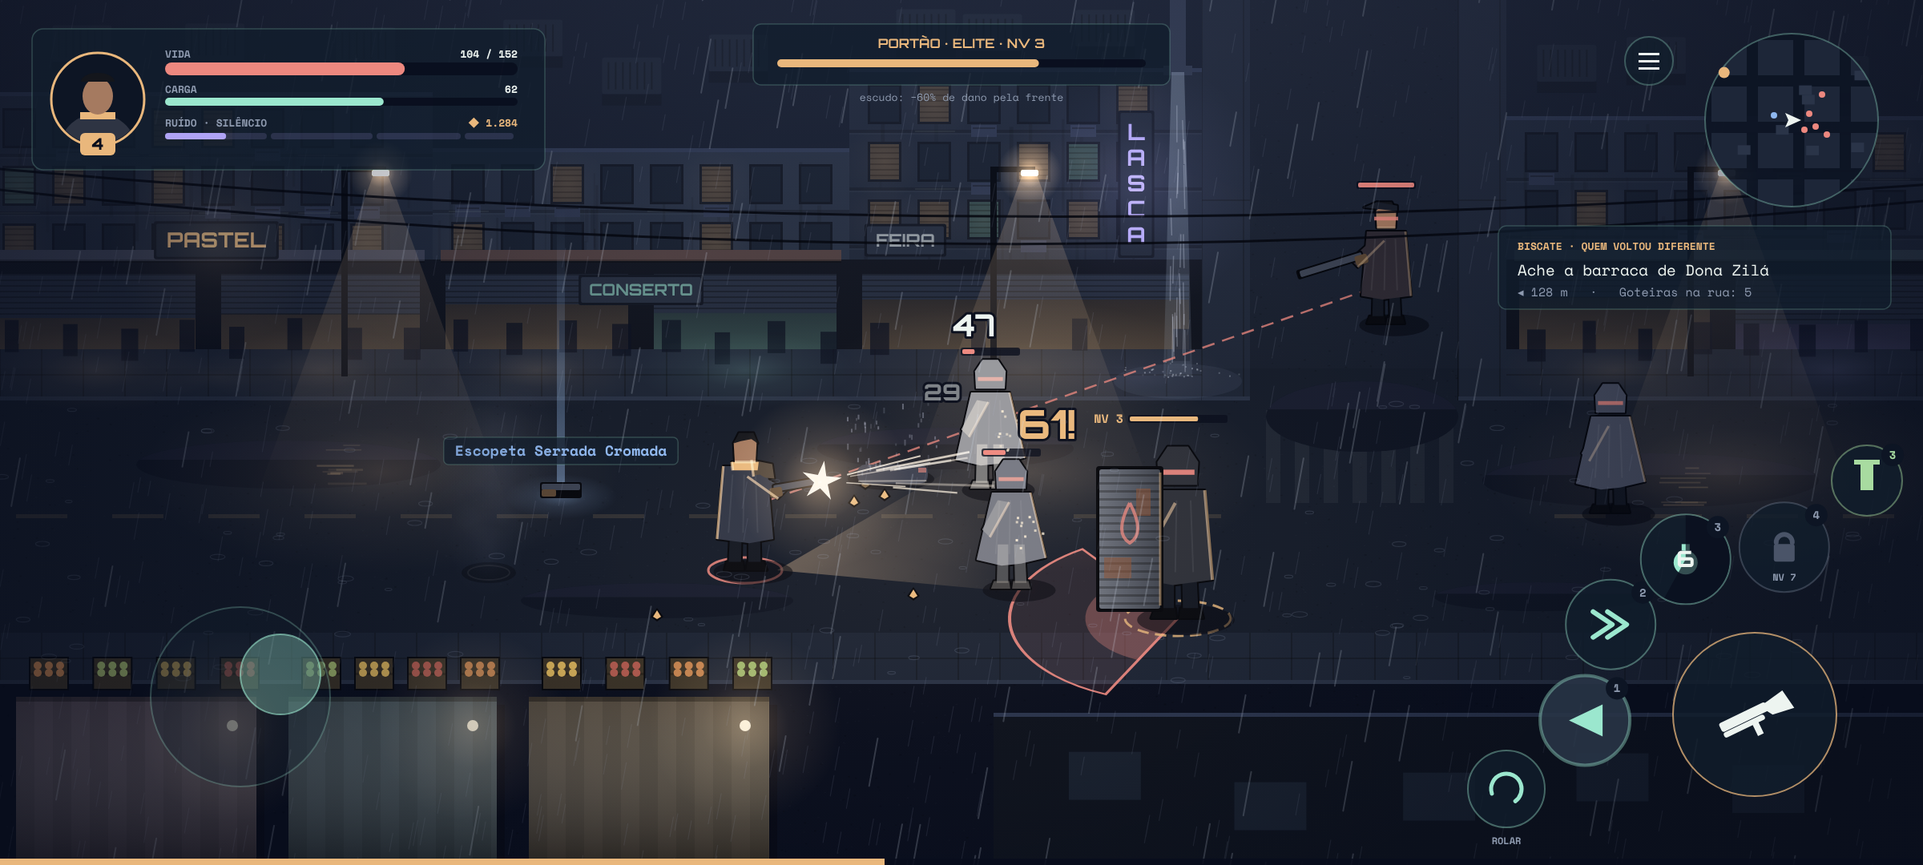
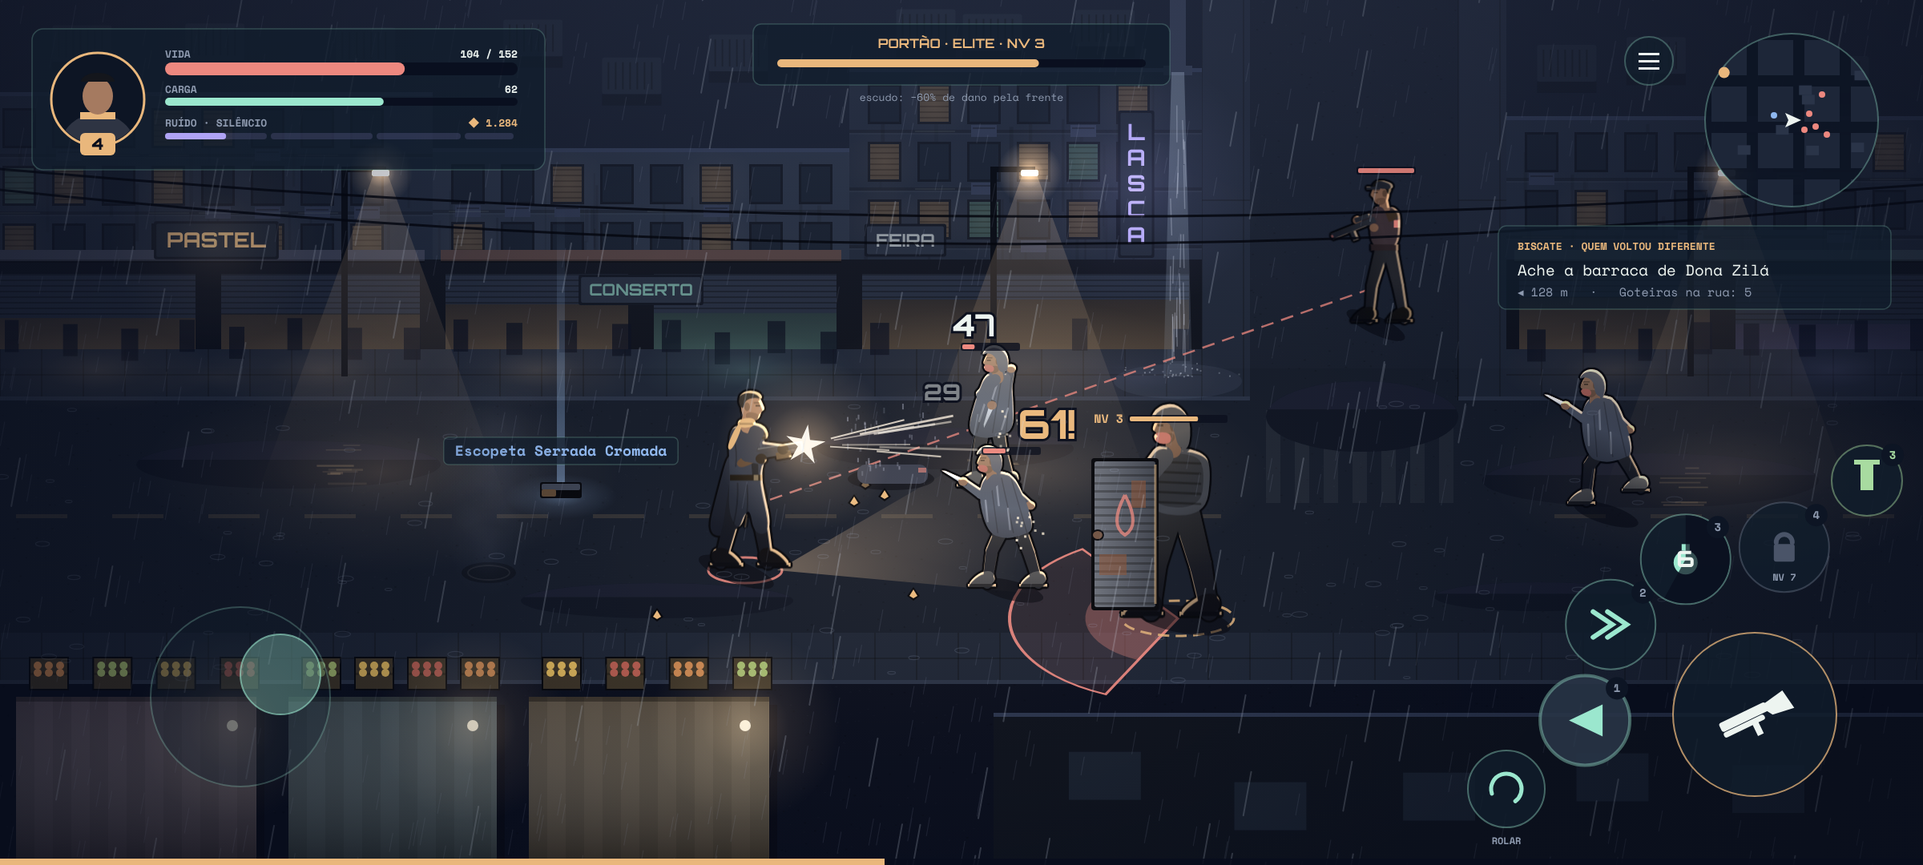
ARPG: personagens com esqueleto, roupa e luz no quadro-alvo
Cada personagem vira um esqueleto vestido peça por peça (membros com
volume, sobretudo, capa de plástico, colete, rosto e mãos) e passa por
sombreado na direção do poste, luz de recorte quente e contorno escuro,
as mesmas passadas que o jogo vai cachear por pose.

Claude-Session: https://claude.ai/code/session_01XykR7UudGTSDrKoZbePf42

Changed region(s): [[0.375, 0.3972, 0.6562, 0.7333], [0.6562, 0.1833, 0.75, 0.3667], [0.8125, 0.4278, 0.875, 0.5806]]

diff --git a/arpg/docs/visao-final.html b/arpg/docs/visao-final.html
@@ -165,48 +165,203 @@ function poste(x, y) {
 }
 
 // ── personagens ────────────────────────────────────
-// Silhueta escura com contorno quase preto e luz de recorte quente do lado do poste.
-// A cor de quem é quem fica num detalhe só: cachecol âmbar, bandana coral.
-function pessoa(x, y, o) {
-  const s = o.s || 1.25, f = o.olha || 1;
-  ctx.fillStyle = 'rgba(3,6,14,0.55)'; ctx.beginPath(); ctx.ellipse(x + 10, y + 2, 38 * s, 12 * s, 0, 0, Math.PI * 2); ctx.fill();
-  const P = [];
-  const p = (cor, pts, recorte) => P.push({ cor, pts: pts.map(([a, b]) => [x + a * s * f, y + b * s]), recorte });
-  p('#121722', [[-14, -46], [-3, -46], [-4, -6], [-16, -6]]);
-  p('#121722', [[3, -46], [14, -46], [15, -6], [3, -6]]);
-  p('#07090f', [[-18, -8], [-2, -8], [-1, 0], [-20, 0]]);
-  p('#07090f', [[2, -8], [18, -8], [21, 0], [1, 0]]);
-  if (o.capa) p(o.casaco, [[-20, -100], [20, -100], [36, -30], [10, -24], [-10, -26], [-36, -32]], true);
-  else p(o.casaco, [[-21, -100], [21, -100], [27, -30], [4, -26], [-27, -30]], true);
-  if (o.ombreira) p('#4a4038', [[6, -106], [26, -102], [28, -88], [8, -90]], true);
-  const a = o.mira ?? 0.9;
-  const ax = 8, ay = -90, ex = ax + Math.cos(a) * 26, ey = ay + 14 + Math.sin(a) * 16;
-  p(o.casaco, [[ax - 6, ay], [ax + 6, ay - 2], [ex + 6, ey + 2], [ex - 2, ey + 10]], true);
-  const cab = o.capuz
-    ? [[-15, -104], [-16, -122], [-8, -134], [8, -134], [16, -122], [15, -104]]
-    : [[-10, -104], [-11, -122], [-6, -130], [7, -130], [11, -122], [10, -104]];
-  p(o.capuz ? o.casaco : '#a57a60', cab, !o.capuz);
-  if (!o.capuz) p('#14161c', [[-11, -122], [-6, -132], [8, -132], [12, -122], [6, -126], [-4, -124]]);
-  if (o.bone) p('#1a1f2b', [[-12, -128], [10, -132], [24, -126], [-12, -122]]);
-  if (o.cachecol) p(o.cachecol, [[-13, -104], [13, -104], [12, -96], [-12, -96]], true);
-  ctx.lineJoin = 'round';
-  for (const q of P) { poli(q.pts); ctx.strokeStyle = '#04060c'; ctx.lineWidth = 4; ctx.stroke(); }
-  for (const q of P) { poli(q.pts); ctx.fillStyle = q.cor; ctx.fill(); }
-  if (o.arma) {
-    const bx = x + ex * s * f, by = y + ey * s;
-    ctx.save(); ctx.translate(bx, by); ctx.rotate(f > 0 ? a : Math.PI - a); if (f < 0) ctx.scale(1, -1);
-    ctx.fillStyle = '#04060c'; rr(-10, -7, o.arma * s + 6, 12, 3); ctx.fill();
-    ctx.fillStyle = '#3b4252'; rr(-8, -5, o.arma * s, 8, 2); ctx.fill();
-    ctx.fillStyle = '#5a4634'; rr(-14, -2, 16, 12, 3); ctx.fill();
-    ctx.restore();
-  }
-  ctx.save(); ctx.globalCompositeOperation = 'screen'; ctx.lineWidth = 2.5 * s; ctx.strokeStyle = rgba(A.sodio, o.recorte ?? 0.55);
-  for (const q of P) if (q.recorte) { ctx.beginPath(); ctx.moveTo(q.pts[0][0], q.pts[0][1]); ctx.lineTo(q.pts[q.pts.length - 1][0], q.pts[q.pts.length - 1][1]); ctx.stroke(); }
-  ctx.restore();
-  ctx.strokeStyle = 'rgba(237,244,240,0.07)'; ctx.lineWidth = 2;
-  for (let i = 0; i < 3; i++) { ctx.beginPath(); ctx.moveTo(x - 12 * s + i * 11 * s, y - 92 * s); ctx.lineTo(x - 16 * s + i * 14 * s, y - 36 * s); ctx.stroke(); }
-  if (o.acento) { ctx.fillStyle = o.acento; ctx.fillRect(x - 13 * s, y - 116 * s, 26 * s, 4 * s); }
-  if (o.flash) { ctx.globalAlpha = o.flash; for (const q of P) { poli(q.pts); ctx.fillStyle = '#f6efe4'; ctx.fill(); } ctx.globalAlpha = 1; }
+// Cada personagem é um esqueleto (juntas em unidades, pés na origem, olhando pra direita)
+// vestido peça por peça num canvas próprio. Depois vêm três passadas, as mesmas que o jogo
+// fará uma vez por pose e guardará em cache: sombreado na direção da luz, luz de recorte
+// quente no lado do poste e contorno escuro de 2 px pra silhueta ler em qualquer chão.
+const LUZES = [[475, 216], [1285, 216], [2155, 216]];
+function capsula(x1, y1, r1, x2, y2, r2) {
+  const p = new Path2D(), a = Math.atan2(y2 - y1, x2 - x1), n = a + Math.PI / 2;
+  p.moveTo(x1 + Math.cos(n) * r1, y1 + Math.sin(n) * r1);
+  p.lineTo(x2 + Math.cos(n) * r2, y2 + Math.sin(n) * r2);
+  p.arc(x2, y2, r2, n, n + Math.PI, true);
+  p.lineTo(x1 - Math.cos(n) * r1, y1 - Math.sin(n) * r1);
+  p.arc(x1, y1, r1, n + Math.PI, n, true);
+  p.closePath(); return p;
+}
+function forma(pts, curva) {
+  const p = new Path2D();
+  if (!curva) { pts.forEach(([x, y], i) => (i ? p.lineTo(x, y) : p.moveTo(x, y))); p.closePath(); return p; }
+  // contorno suave: passa pelo meio de cada lado (pano não tem quina)
+  const m = (a, b) => [(a[0] + b[0]) / 2, (a[1] + b[1]) / 2], n = pts.length;
+  const s = m(pts[n - 1], pts[0]); p.moveTo(s[0], s[1]);
+  for (let i = 0; i < n; i++) { const q = m(pts[i], pts[(i + 1) % n]); p.quadraticCurveTo(pts[i][0], pts[i][1], q[0], q[1]); }
+  p.closePath(); return p;
+}
+function membro(g, a, b, c, r1, r2, r3, cor) {   // dois segmentos: coxa+canela, braço+antebraço
+  g.fillStyle = cor; g.fill(capsula(a[0], a[1], r1, b[0], b[1], r2)); g.fill(capsula(b[0], b[1], r2, c[0], c[1], r3));
+}
+function bota(g, t, cor, sola, frente = 1) {
+  g.fillStyle = cor; g.fill(forma([[t[0] - 9, t[1] - 16], [t[0] + 7, t[1] - 16], [t[0] + 9 + 12 * frente, t[1] - 4], [t[0] + 10 + 13 * frente, t[1] + 2], [t[0] - 10, t[1] + 2]], true));
+  g.fillStyle = sola; g.fillRect(t[0] - 11, t[1], 22 + 13 * frente, 4);
+}
+function mao(g, p, cor) { g.fillStyle = cor; g.beginPath(); g.ellipse(p[0], p[1], 6, 5.5, 0, 0, Math.PI * 2); g.fill(); }
+function cabeca(g, h, o) {
+  const [x, y] = h;
+  g.fillStyle = o.pele; g.fill(capsula(x - 3, y + 10, 6, x - 4, y + 20, 7));            // pescoço
+  g.fill(forma([[x - 11, y - 12], [x + 8, y - 14], [x + 13, y - 4], [x + 15, y + 2], [x + 11, y + 4], [x + 9, y + 12], [x, y + 15], [x - 10, y + 9]], true));
+  g.fillStyle = 'rgba(0,0,0,0.22)'; g.fill(forma([[x - 4, y + 4], [x + 9, y + 6], [x + 7, y + 13], [x, y + 15], [x - 6, y + 10]], true));   // barba por fazer / sombra do queixo
+  g.fillStyle = 'rgba(0,0,0,0.55)'; g.fillRect(x + 5, y - 3, 5, 1.8);                     // olho
+  g.fillStyle = 'rgba(0,0,0,0.35)'; g.fillRect(x + 3, y - 6, 8, 1.6);                     // sobrancelha
+  g.fillStyle = 'rgba(0,0,0,0.3)'; g.beginPath(); g.ellipse(x - 4, y - 1, 3, 4.5, 0, 0, Math.PI * 2); g.fill();   // orelha
+  if (o.cabelo) { g.fillStyle = o.cabelo; g.fill(forma([[x - 13, y - 4], [x - 12, y - 14], [x - 2, y - 19], [x + 10, y - 16], [x + 13, y - 9], [x + 4, y - 11], [x - 6, y - 8], [x - 8, y + 2]], true)); }
+}
+
+function figura(o, desenhar) {
+  const S = o.s, LADO = 300, c = document.createElement('canvas');
+  c.width = Math.ceil(LADO * S); c.height = Math.ceil(LADO * S);
+  const g = c.getContext('2d'), ox = c.width / 2, oy = c.height - 14 * S, f = o.olha || 1;
+  g.save(); g.translate(ox, oy); g.scale(S * f, S); g.lineJoin = 'round'; g.lineCap = 'round';
+  desenhar(g); g.restore();
+  // direção da luz: do personagem pro poste mais perto
+  const [lx, ly] = LUZES.reduce((m, l) => (Math.hypot(l[0] - o.x, l[1] - o.y) < Math.hypot(m[0] - o.x, m[1] - o.y) ? l : m));
+  let dx = lx - o.x, dy = ly - (o.y - 90 * S); const d = Math.hypot(dx, dy); dx /= d; dy /= d;
+  // sombreado: claro do lado da luz, escuro do outro, pé mais escuro que cabeça
+  g.globalCompositeOperation = 'source-atop';
+  const sg = g.createLinearGradient(ox + dx * 60 * S, oy - 100 * S + dy * 60 * S, ox - dx * 60 * S, oy - 100 * S - dy * 60 * S);
+  sg.addColorStop(0, 'rgba(255,214,160,0.16)'); sg.addColorStop(0.5, 'rgba(0,0,0,0)'); sg.addColorStop(1, 'rgba(4,8,20,0.5)');
+  g.fillStyle = sg; g.fillRect(0, 0, c.width, c.height);
+  const ag = g.createLinearGradient(0, oy - 60 * S, 0, oy); ag.addColorStop(0, 'rgba(4,8,20,0)'); ag.addColorStop(1, 'rgba(4,8,20,0.45)');
+  g.fillStyle = ag; g.fillRect(0, 0, c.width, c.height);
+  if (o.flash) { g.fillStyle = `rgba(250,240,225,${o.flash})`; g.fillRect(0, 0, c.width, c.height); }
+  // luz de recorte: silhueta menos ela mesma deslocada pra longe da luz
+  const rim = document.createElement('canvas'); rim.width = c.width; rim.height = c.height;
+  const rg = rim.getContext('2d');
+  rg.drawImage(c, 0, 0); rg.globalCompositeOperation = 'source-in'; rg.fillStyle = rgba(A.sodio, o.recorte ?? 0.85); rg.fillRect(0, 0, c.width, c.height);
+  rg.globalCompositeOperation = 'destination-out'; rg.drawImage(c, -dx * 3.2 * S, -dy * 3.2 * S);
+  g.globalCompositeOperation = 'lighter'; g.drawImage(rim, 0, 0);
+  // contorno escuro
+  const out = document.createElement('canvas'); out.width = c.width + 8; out.height = c.height + 8;
+  const og = out.getContext('2d');
+  const mask = document.createElement('canvas'); mask.width = c.width; mask.height = c.height;
+  const mg = mask.getContext('2d'); mg.drawImage(c, 0, 0); mg.globalCompositeOperation = 'source-in'; mg.fillStyle = '#04060c'; mg.fillRect(0, 0, c.width, c.height);
+  for (let a = 0; a < 8; a++) og.drawImage(mask, 4 + Math.cos(a * Math.PI / 4) * 2.2, 4 + Math.sin(a * Math.PI / 4) * 2.2);
+  og.drawImage(c, 4, 4);
+  // sombra no chão, alongada pra longe da luz
+  ctx.save(); ctx.translate(o.x - dx * 14 * S, o.y + 2); ctx.rotate(Math.atan2(-dy, -dx) * 0.15);
+  ctx.fillStyle = 'rgba(3,6,14,0.55)'; ctx.beginPath(); ctx.ellipse(0, 0, 42 * S, 12 * S, 0, 0, Math.PI * 2); ctx.fill(); ctx.restore();
+  ctx.drawImage(out, o.x - ox - 4, o.y - oy - 4);
+}
+
+// Faro, Mercenário: sobretudo comprido aberto, cachecol âmbar, ombreira de ex-segurança de carga,
+// escopeta de cano serrado na altura do peito. Ainda sem implante: cru.
+function faro(x, y, mira) {
+  figura({ x, y, s: 1.18, recorte: 0.9 }, g => {
+    const pele = '#a87b60', calca = '#1f232d', luva = '#1b1715', casaco = '#2d3444', casacoEsc = '#232938';
+    const pB = { q: [-6, -96], j: [-15, -50], t: [-26, -8] }, pF = { q: [6, -95], j: [17, -50], t: [24, -8] };
+    // aba de trás do sobretudo, varrida pelo passo
+    g.fillStyle = casacoEsc; g.fill(forma([[-16, -132], [-4, -100], [-6, -60], [-22, -34], [-40, -40], [-30, -80]], true));
+    membro(g, pB.q, pB.j, pB.t, 10, 8, 6.5, calca); bota(g, pB.t, '#16120f', '#0a0806', 1);
+    // braço de trás segurando a telha da escopeta
+    membro(g, [-6, -146], [16, -130], [40, -128], 7.5, 6.5, 5.5, casacoEsc);
+    membro(g, pF.q, pF.j, pF.t, 10, 8, 6.5, calca); bota(g, pF.t, '#16120f', '#0a0806', 1);
+    // tronco do sobretudo, aberto na frente
+    g.fillStyle = casaco; g.fill(forma([[-12, -154], [10, -156], [20, -146], [22, -120], [16, -98], [30, -42], [10, -36], [4, -70], [-6, -40], [-18, -60], [-16, -100], [-18, -140]], true));
+    g.fillStyle = '#161a22'; g.fill(forma([[6, -150], [13, -150], [14, -100], [8, -96], [6, -120]]));          // camisa por baixo
+    g.fillStyle = '#3a4255'; g.fill(forma([[10, -156], [20, -146], [17, -128], [12, -140]]));                 // lapela
+    g.fillStyle = '#17130f'; g.fillRect(-16, -101, 34, 6); g.fillStyle = '#7a6a52'; g.fillRect(9, -101, 5, 6);   // cinto
+    g.strokeStyle = 'rgba(0,0,0,0.28)'; g.lineWidth = 1.6;                                                     // dobras do pano molhado
+    for (const [a, b, c2, d] of [[-8, -92, -12, -50], [2, -90, 0, -46], [18, -92, 24, -50], [-12, -140, -10, -110]]) { g.beginPath(); g.moveTo(a, b); g.quadraticCurveTo((a + c2) / 2 + 3, (b + d) / 2, c2, d); g.stroke(); }
+    // ombreira de placa com tiras
+    g.fillStyle = '#4b433a'; g.fill(forma([[2, -158], [22, -154], [26, -138], [6, -138]], true));
+    g.fillStyle = 'rgba(0,0,0,0.35)'; g.fillRect(4, -146, 20, 2.5); g.fillRect(4, -141, 20, 2);
+    cabeca(g, [6, -172], { pele, cabelo: '#141519' });
+    // cachecol âmbar: volta no pescoço e ponta caindo pra trás
+    g.fillStyle = A.ambar; g.fill(forma([[-8, -160], [10, -162], [12, -152], [-8, -150]], true));
+    g.fill(forma([[-8, -156], [-2, -154], [-14, -126], [-20, -130]], true));
+    g.fillStyle = 'rgba(0,0,0,0.25)'; g.fillRect(-6, -156, 16, 2);
+    // escopeta: coronha de madeira, dois canos curtos
+    g.save(); g.translate(14, -124); g.rotate(mira);
+    g.fillStyle = '#5a4230'; g.fill(forma([[-26, 4], [-4, -2], [4, 6], [-22, 14]], true));
+    g.fillStyle = '#2c303b'; g.fillRect(-4, -5, 52, 6); g.fillRect(-4, 1, 52, 5);
+    g.fillStyle = 'rgba(237,244,240,0.25)'; g.fillRect(0, -5, 46, 1.5);
+    g.fillStyle = '#4a3828'; g.fillRect(18, 3, 16, 7);
+    g.restore();
+    mao(g, [40, -128], luva);
+    // braço da frente no gatilho
+    membro(g, [12, -146], [2, -122], [16, -118], 8, 7, 6, casaco);
+    mao(g, [17, -118], luva);
+  });
+}
+
+// Goteira: capa de chuva de plástico com capuz, bandana coral na boca, faca na mão.
+function goteira(x, y, o) {
+  figura({ x, y, s: o.s || 1, olha: -1, flash: o.flash, recorte: 0.8 }, g => {
+    const pele = '#8e6a55', calca = '#2a2c33', plastico = '#4c5466', plasticoEsc = '#3c4354';
+    const L = o.pose === 'corre' ? { qB: [-6, -88], jB: [-26, -54], tB: [-38, -30], qF: [6, -88], jF: [26, -60], tF: [30, -14], tronco: 10 }
+      : o.pose === 'recua' ? { qB: [-6, -92], jB: [-14, -48], tB: [-26, -6], qF: [6, -92], jF: [14, -48], tF: [18, -6], tronco: -12 }
+      : { qB: [-6, -86], jB: [-22, -46], tB: [-34, -6], qF: [6, -86], jF: [24, -48], tF: [30, -6], tronco: 14 };
+    const t = L.tronco, ombro = [6 + t, -136], ombroB = [-8 + t, -138], cab = [10 + t * 1.3, -158];
+    membro(g, L.qB, L.jB, L.tB, 9.5, 7.5, 6, calca); bota(g, L.tB, '#bdb8ad', '#3a3630', 1);
+    // braço de trás: balança pra trás no bote
+    const mB = o.pose === 'recua' ? [-26, -150] : [-24, -104];
+    membro(g, ombroB, [-14 + t * 0.5, -118], mB, 7, 6, 5, plasticoEsc); mao(g, mB, pele);
+    membro(g, L.qF, L.jF, L.tF, 9.5, 7.5, 6, calca); bota(g, L.tF, '#bdb8ad', '#3a3630', 1);
+    // capa: plástico duro, larga, cai até a coxa
+    g.fillStyle = plastico; g.fill(forma([[-14 + t, -146], [16 + t, -148], [28 + t, -120], [30, -70], [8, -62], [-12, -66], [-30, -74], [-22 + t * 0.5, -120]], true));
+    g.strokeStyle = 'rgba(0,0,0,0.25)'; g.lineWidth = 1.5;
+    for (const k of [-14, -2, 12]) { g.beginPath(); g.moveTo(k + t, -138); g.lineTo(k * 1.4, -70); g.stroke(); }
+    g.strokeStyle = 'rgba(230,238,255,0.35)'; g.lineWidth = 2.5;                       // brilho do plástico molhado
+    for (const [a, b] of [[4, -130], [18, -110], [-10, -100]]) { g.beginPath(); g.moveTo(a + t, b); g.lineTo(a + t * 0.6 + 3, b + 26); g.stroke(); }
+    // cabeça dentro do capuz
+    cabeca(g, cab, { pele });
+    g.fillStyle = plastico; g.fill(forma([[cab[0] - 16, cab[1] + 14], [cab[0] - 18, cab[1] - 8], [cab[0] - 6, cab[1] - 22], [cab[0] + 10, cab[1] - 20], [cab[0] + 17, cab[1] - 8], [cab[0] + 8, cab[1] - 12], [cab[0] - 2, cab[1] - 6], [cab[0] - 4, cab[1] + 12]], true));
+    g.fillStyle = '#b8645d'; g.fill(forma([[cab[0] + 1, cab[1] + 4], [cab[0] + 15, cab[1] + 3], [cab[0] + 12, cab[1] + 12], [cab[0] + 1, cab[1] + 13]], true));   // bandana
+    // braço da faca
+    const mF = o.pose === 'recua' ? [ombro[0] + 4, ombro[1] + 32] : [ombro[0] + 40, ombro[1] + 2];
+    membro(g, ombro, [ombro[0] + 18, ombro[1] + 18], mF, 7, 6, 5, plastico);
+    g.save(); g.translate(mF[0], mF[1]); g.rotate(o.pose === 'recua' ? 1.2 : -0.5);
+    g.fillStyle = '#c9d2e0'; g.fill(forma([[2, -3], [26, -1], [30, 1], [2, 3]])); g.fillStyle = '#222'; g.fillRect(-6, -3, 9, 6);
+    g.restore(); mao(g, mF, pele);
+  });
+}
+
+function atirador(x, y) {
+  figura({ x, y, s: 0.95, olha: -1, recorte: 0.55 }, g => {
+    const pele = '#7f5d4a', calca = '#24262d', jaq = '#3b3036';
+    membro(g, [-6, -94], [-16, -50], [-24, -6], 9.5, 7.5, 6, calca); bota(g, [-24, -6], '#15130f', '#080706', 1);
+    membro(g, [-8, -146], [16, -134], [38, -136], 7, 6, 5, '#2c2328'); mao(g, [38, -136], pele);
+    membro(g, [6, -94], [18, -50], [22, -6], 9.5, 7.5, 6, calca); bota(g, [22, -6], '#15130f', '#080706', 1);
+    g.fillStyle = jaq; g.fill(forma([[-14, -152], [12, -154], [22, -140], [20, -98], [-16, -96], [-20, -140]], true));
+    g.fillStyle = '#2a2125'; g.fillRect(-16, -104, 36, 8);
+    g.fillStyle = A.coral; g.fillRect(-18, -136, 8, 10);                                           // braçadeira dos Goteiras
+    cabeca(g, [6, -170], { pele, cabelo: '#111' });
+    g.fillStyle = '#1d212b'; g.fill(forma([[-8, -186], [12, -188], [16, -178], [-10, -176]], true)); g.fillRect(8, -180, 18, 4);   // boné
+    g.save(); g.translate(4, -140); g.rotate(0.38);                                                  // fuzil no ombro, mirando
+    g.fillStyle = '#3a2c22'; g.fill(forma([[-20, -4], [4, -6], [4, 8], [-18, 10]], true));
+    g.fillStyle = '#2b2f39'; g.fillRect(2, -5, 70, 8); g.fillRect(14, -12, 22, 6); g.fillRect(40, 3, 8, 12);
+    g.fillStyle = rgba(A.coral, 0.9); g.fillRect(70, -3, 3, 4);
+    g.restore();
+    membro(g, [10, -146], [0, -124], [16, -126], 8, 7, 6, jaq); mao(g, [16, -126], pele);
+  });
+}
+
+function portao(x, y) {
+  ctx.strokeStyle = rgba(A.ambar, 0.8); ctx.lineWidth = 3; ctx.setLineDash([14, 8]);
+  ctx.beginPath(); ctx.ellipse(x, y, 70, 22, 0, 0, Math.PI * 2); ctx.stroke(); ctx.setLineDash([]);
+  figura({ x, y, s: 1.4, olha: -1, recorte: 0.6 }, g => {
+    const pele = '#6f5243', calca = '#26282e', mol = '#3b3f48', colete = '#2a2d34';
+    membro(g, [-8, -92], [-20, -48], [-28, -6], 12, 10, 8, calca); bota(g, [-28, -6], '#121010', '#060505', 1.2);
+    membro(g, [8, -92], [20, -48], [24, -6], 12, 10, 8, calca); bota(g, [24, -6], '#121010', '#060505', 1.2);
+    g.fillStyle = mol; g.fill(forma([[-24, -150], [20, -154], [32, -134], [30, -94], [-24, -90], [-30, -130]], true));   // moletom
+    g.fillStyle = colete; g.fill(forma([[-18, -146], [18, -148], [26, -132], [24, -100], [-20, -98], [-24, -130]], true));  // colete acolchoado
+    g.strokeStyle = 'rgba(0,0,0,0.35)'; g.lineWidth = 2; for (let k = -138; k < -100; k += 9) { g.beginPath(); g.moveTo(-20, k); g.lineTo(24, k - 2); g.stroke(); }
+    cabeca(g, [8, -170], { pele });
+    g.fillStyle = mol; g.fill(forma([[-10, -150], [-12, -176], [0, -192], [18, -190], [26, -176], [16, -178], [4, -172], [0, -152]], true));   // capuz
+    g.fillStyle = '#b8645d'; g.fill(forma([[6, -166], [22, -166], [20, -156], [6, -155]], true));
+    membro(g, [14, -144], [30, -124], [44, -128], 10, 9, 7, mol); mao(g, [44, -128], pele);
+  });
+  const sx = x - 104, sy = y - 196;   // escudo: porta de aço de enrolar arrancada, segurada na frente
+  ctx.fillStyle = '#04060c'; rr(sx - 4, sy - 4, 84, 190, 4); ctx.fill();
+  const g = ctx.createLinearGradient(sx, 0, sx + 76, 0); g.addColorStop(0, '#6a6f7a'); g.addColorStop(1, '#3e434e');
+  ctx.fillStyle = g; rr(sx, sy, 76, 182, 3); ctx.fill();
+  ctx.fillStyle = 'rgba(0,0,0,0.28)'; for (let b = 6; b < 182; b += 10) ctx.fillRect(sx, sy + b, 76, 3);
+  ctx.fillStyle = 'rgba(140,82,52,0.55)'; ctx.fillRect(sx + 6, sy + 116, 34, 26); ctx.fillRect(sx + 46, sy + 24, 18, 34);
+  ctx.strokeStyle = rgba(A.coral, 0.75); ctx.lineWidth = 4;   // pichação dos Goteiras: uma gota
+  ctx.beginPath(); ctx.moveTo(sx + 38, sy + 42); ctx.quadraticCurveTo(sx + 58, sy + 80, sx + 38, sy + 92); ctx.quadraticCurveTo(sx + 18, sy + 80, sx + 38, sy + 42); ctx.stroke();
+  ctx.strokeStyle = rgba(A.sodio, 0.5); ctx.lineWidth = 3; ctx.beginPath(); ctx.moveTo(sx + 76, sy + 4); ctx.lineTo(sx + 76, sy + 178); ctx.stroke();
+  ctx.fillStyle = '#6f5243'; ctx.beginPath(); ctx.ellipse(sx + 4, sy + 92, 7, 6, 0, 0, Math.PI * 2); ctx.fill();   // mão segurando a borda
+  ctx.strokeStyle = '#04060c'; ctx.lineWidth = 2; ctx.stroke();
 }
 
 function barraVida(x, y, w, frac, cor, txt) {
@@ -226,21 +381,6 @@ function avisoCone(x, y, ang, abre, raio, prog) {
   ctx.beginPath(); ctx.moveTo(0, 0); ctx.arc(0, 0, raio * prog, ang - abre / 2, ang + abre / 2); ctx.closePath();
   ctx.fillStyle = rgba(A.coral, 0.32); ctx.fill(); ctx.restore();
 }
-function portao(x, y) {
-  ctx.strokeStyle = rgba(A.ambar, 0.8); ctx.lineWidth = 3; ctx.setLineDash([14, 8]);
-  ctx.beginPath(); ctx.ellipse(x, y, 66, 22, 0, 0, Math.PI * 2); ctx.stroke(); ctx.setLineDash([]);
-  pessoa(x, y, { s: 1.6, casaco: '#2c2f38', olha: -1, acento: rgba(A.coral, 0.9), capuz: true });
-  const sx = x - 98, sy = y - 186;   // escudo: porta de aço de enrolar arrancada
-  ctx.fillStyle = '#04060c'; rr(sx - 4, sy - 4, 84, 182, 4); ctx.fill();
-  const g = ctx.createLinearGradient(sx, 0, sx + 76, 0); g.addColorStop(0, '#6a6f7a'); g.addColorStop(1, '#3e434e');
-  ctx.fillStyle = g; rr(sx, sy, 76, 174, 3); ctx.fill();
-  ctx.fillStyle = 'rgba(0,0,0,0.28)'; for (let b = 6; b < 174; b += 10) ctx.fillRect(sx, sy + b, 76, 3);
-  ctx.fillStyle = 'rgba(140,82,52,0.55)'; ctx.fillRect(sx + 6, sy + 110, 34, 26); ctx.fillRect(sx + 46, sy + 24, 18, 34);
-  ctx.strokeStyle = rgba(A.coral, 0.75); ctx.lineWidth = 4;   // pichação dos Goteiras: uma gota
-  ctx.beginPath(); ctx.moveTo(sx + 38, sy + 42); ctx.quadraticCurveTo(sx + 58, sy + 80, sx + 38, sy + 92); ctx.quadraticCurveTo(sx + 18, sy + 80, sx + 38, sy + 42); ctx.stroke();
-  ctx.strokeStyle = rgba(A.sodio, 0.45); ctx.lineWidth = 3; ctx.beginPath(); ctx.moveTo(sx + 76, sy + 4); ctx.lineTo(sx + 76, sy + 170); ctx.stroke();
-}
-
 // ── HUD na linguagem do arcade: vidro escuro, borda fina menta, sem brilho ──
 function painel(x, y, w, h, r = 8) {
   ctx.fillStyle = 'rgba(17,29,44,0.72)'; rr(x, y, w, h, r); ctx.fill();
@@ -401,20 +541,18 @@ function cena() {
   ctx.fillStyle = '#3a3f4f'; rr(1070, 580, 88, 24, 10); ctx.fill(); ctx.fillStyle = rgba(A.coral, 0.6); ctx.fillRect(1146, 584, 10, 6);
   for (let i = 0; i < 40; i++) { ctx.fillStyle = rgba('#c7cbe0', R(0.1, 0.4)); ctx.fillRect(1112 + R(-56, 56), 590 - R(0, 90), 2, R(3, 8)); }
 
-  const poncho = '#4a5063';   // capa de chuva de plástico, cinza azulado
   const atores = [
-    { y: 404, d: () => { pessoa(1730, 404, { s: 1.15, casaco: '#2e2a33', bone: true, arma: 70, mira: 0.3, olha: -1, acento: rgba(A.coral, 0.85), recorte: 0.35 }); barraVida(1730, 228, 70, 1, A.coral); } },
-    { y: 610, d: () => { pessoa(1236, 610, { s: 1.2, casaco: poncho, capuz: true, capa: true, olha: -1, acento: rgba(A.coral, 0.85), flash: 0.45 }); barraVida(1236, 436, 70, 0.22, A.coral); } },
-    { y: 712, d: () => pessoa(fx, fy, { s: 1.3, casaco: '#2f3545', ombreira: true, arma: 40, mira, olha: 1, cachecol: A.ambar, recorte: 0.7 }) },
-    { y: 735, d: () => { pessoa(1262, 735, { s: 1.2, casaco: poncho, capuz: true, capa: true, olha: -1, acento: rgba(A.coral, 0.85), flash: 0.25 }); barraVida(1262, 562, 70, 0.4, A.coral); } },
+    { y: 404, d: () => { atirador(1730, 404); barraVida(1730, 210, 70, 1, A.coral); } },
+    { y: 610, d: () => { goteira(1236, 610, { pose: 'recua', flash: 0.16 }); barraVida(1236, 430, 70, 0.22, A.coral); } },
+    { y: 712, d: () => faro(fx, fy, mira) },
+    { y: 735, d: () => { goteira(1262, 735, { flash: 0.08 }); barraVida(1262, 560, 70, 0.4, A.coral); } },
     { y: 772, d: () => { portao(1470, 772); barraVida(1470, 520, 120, 0.71, A.ambar, 'NV 3'); } },
-    { y: 640, d: () => pessoa(2010, 640, { s: 1.2, casaco: poncho, capuz: true, capa: true, olha: -1, acento: rgba(A.coral, 0.85), recorte: 0.4 }) },
+    { y: 640, d: () => goteira(2010, 640, { pose: 'corre' }) },
   ].sort((a, b) => a.y - b.y);
   for (const a of atores) a.d();
 
   // tiro: clarão curto e chumbo em riscos finos
-  const s = 1.3, ex = 8 + Math.cos(mira) * 26, ey = -76 + Math.sin(mira) * 16;
-  const bx = fx + (ex + Math.cos(mira) * 40) * s, by = fy + (ey + Math.sin(mira) * 40) * s;
+  const bx = fx + (14 + Math.cos(mira) * 50) * 1.18, by = fy + (-124 + Math.sin(mira) * 50) * 1.18;
   ctx.save(); ctx.globalCompositeOperation = 'screen';
   for (let i = 0; i < 9; i++) {
     const a = mira + R(-0.4, 0.4), d0 = R(20, 110), d1 = d0 + R(70, 150);
